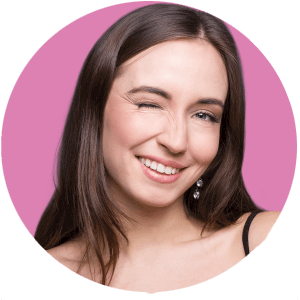
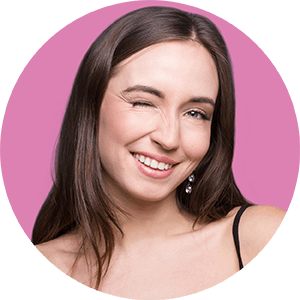
Profile

Changed region(s): [[0.03, 0.0, 1.0, 1.0], [0.0, 0.42, 0.03, 0.66], [0.27, 0.03, 0.33, 0.06]]

diff --git a/src/screen/Profile.vue b/src/screen/Profile.vue
@@ -8,7 +8,7 @@
             <h1>My profile</h1>
                 <el-card class="box-card">
                       <div class="user-img">
-                            <img src="../assets/user.png" width="45%">
+                            <img src="../assets/user.png" width="42%">
                         </div>
 
                     <table>
@@ -155,8 +155,8 @@ border-radius: 10px;
 
 .user-img{
     text-align: center;
-    margin-top: 10px;
-    margin-bottom: 20px;
+    
+    margin-bottom: 5px;
 
 }
 
@@ -172,7 +172,7 @@ color:#06597D;
 h2{
     font-size: 15px;
     color:#06597D;
-    line-height: 0.6;
+    line-height: 0.4;
 }
 ul {
   list-style-type: none;
